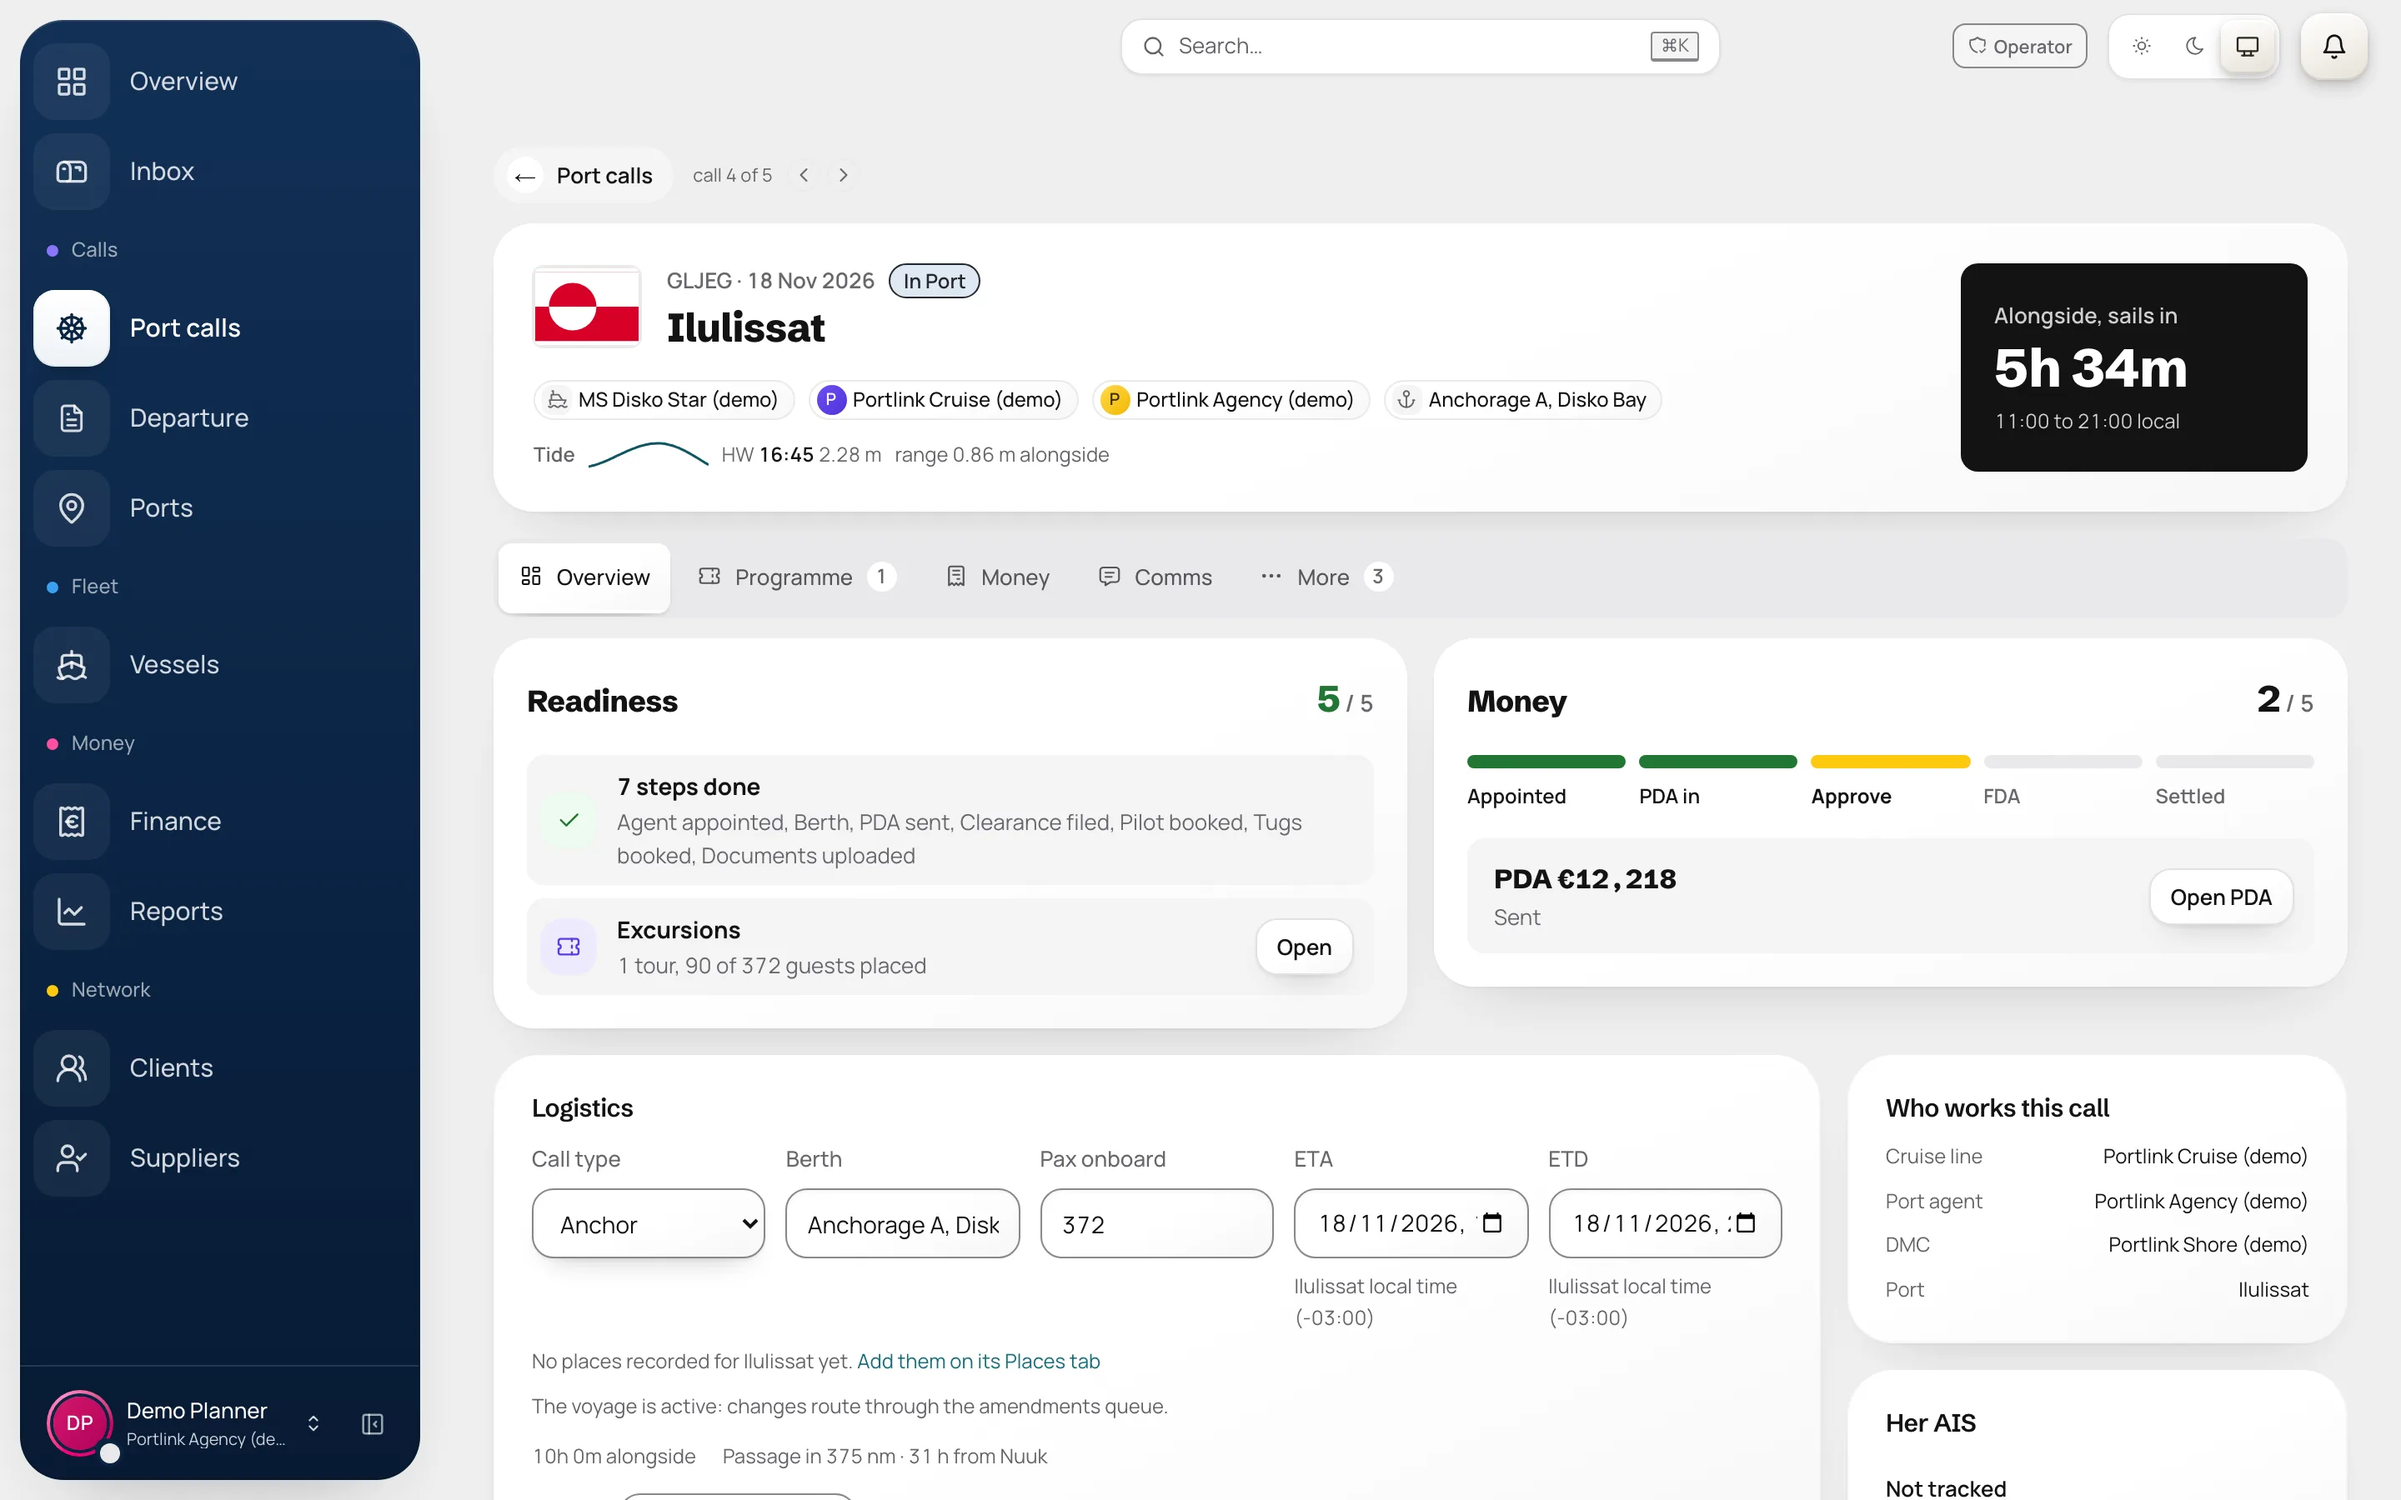
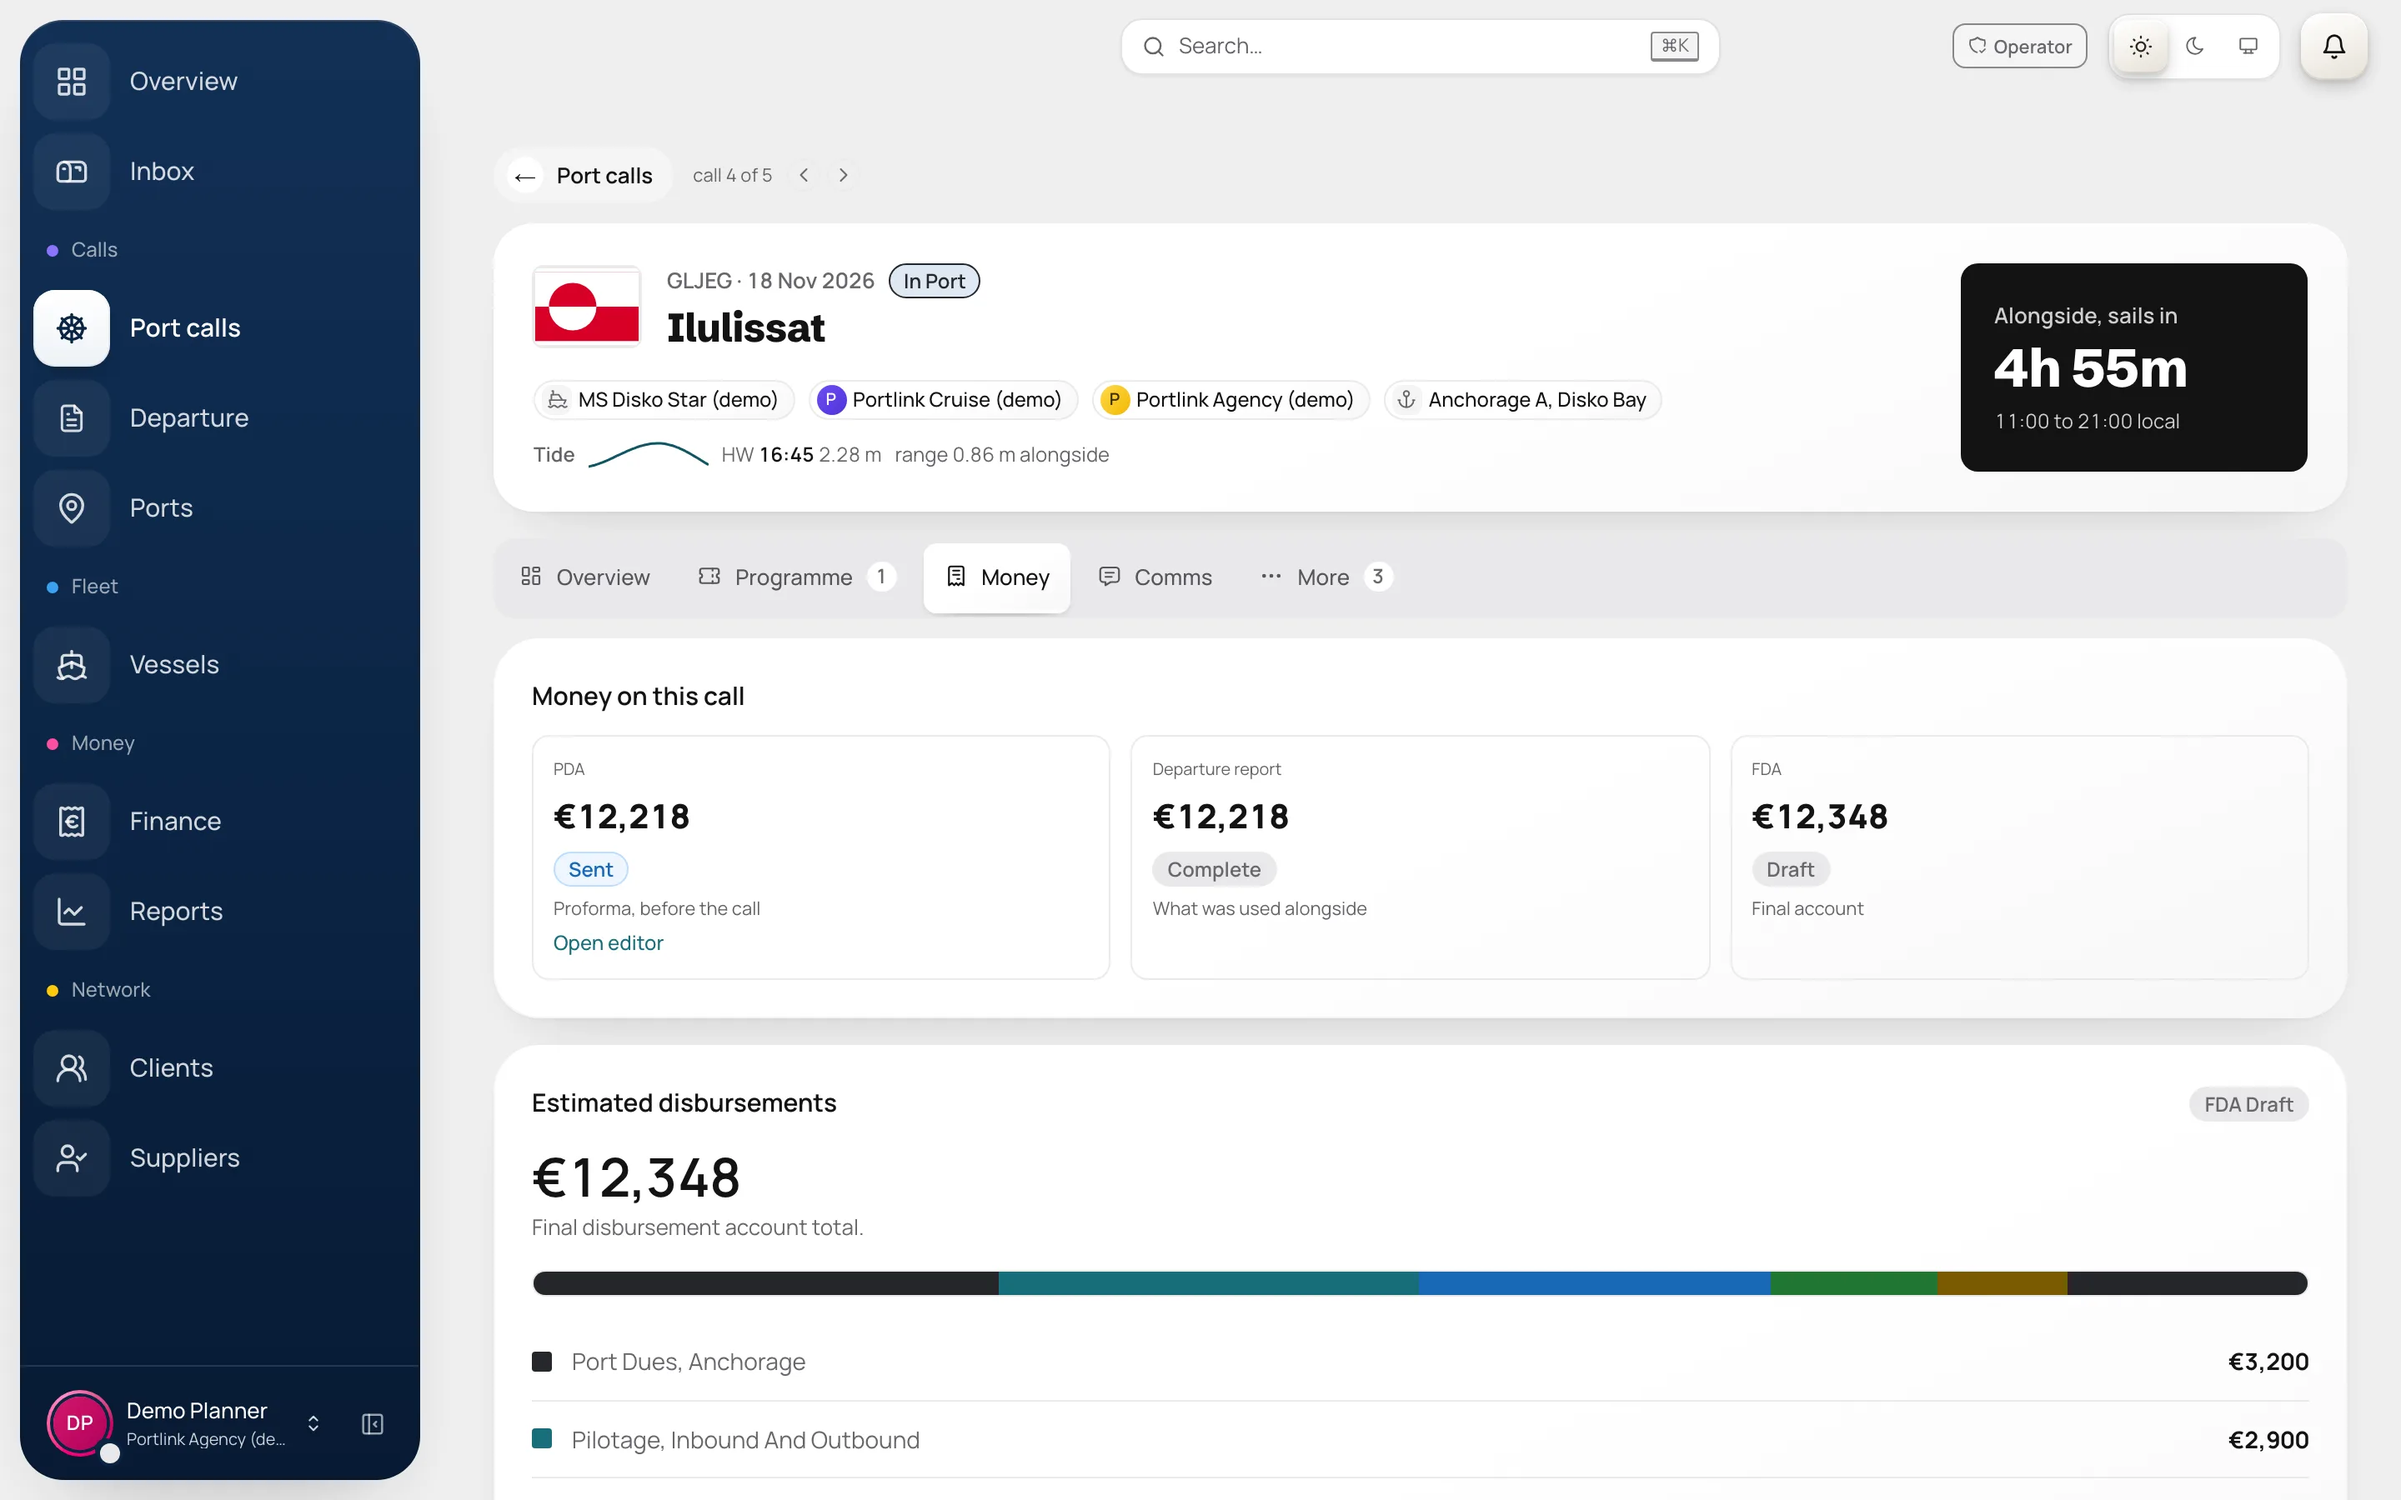
fix(harbour): P12 recaptured on the call's Money tab
P12-desktop and P12-phone showed the call Overview tab (the P06 view), so claim
rows 33, 35 and 36 had no support. Recaptured on the Money tab of the Ilulissat
seed call (platform PR #3230, agent workspace): PDA EUR 12,218 Sent, departure
report Complete, FDA EUR 12,348 Draft. Row 35 marked partial: the actual/estimate
mix per line is not labelled; /harbour copy does not make that claim.

diff --git a/docs/HARBOUR-CLAIMS.md b/docs/HARBOUR-CLAIMS.md
@@ -33,10 +33,10 @@ Data: local Platform stack seeded with PR #3230 (`supabase/seeds/demo_harbour_il
 | 26 | S8 | "Embark runs departures, guides, bookings and payments for small tour operators" | E | P09-desktop.png | no | Departures, guides and bookings are visible (rows 21, 22); payments is not (row 23). |
 | 27 | S8 | Copy: "Tomorrow's departures, staffed." | E | P09-desktop.png | yes | The top bar shows "I morgen Fjordcruise 15:31"; a staffed departure (initials) sits beside unstaffed ones, so reword to "staffed or not, at a glance" if both rows matter. |
 | 28 | S9 | "Embark field mode is the guide's phone view on tour. This is the real screen." | E | none (P10 removed) | no | The route exists in code (`/admin/on-tour/[id]`) but the local Embark database is 30 migrations behind (at 0109, needs 0110 to 0139; `departure.free_sale` is missing) and the page returns a server error. Applying the migrations was refused by the psql write gate (Embark's port 55322 is not in the platform repo's allowed loopback set). Remove S9, or capture it after the local Embark stack is rebuilt (`supabase/dev/local-up.sh --reset`). |
-| 33 | S11 | With the departure report complete, a draft FDA is generated | C | P12-desktop.png, P12-phone.png | yes | Money tab: Departure report "Complete", FDA "Draft EUR 12 348"; PDA page: "FDA generated, EUR 12 348". |
+| 33 | S11 | With the departure report complete, a draft FDA is generated | C | P12-desktop.png, P12-phone.png | yes | Money tab (recaptured 18.11.2026 kl. 19.05, tab `Money` selected, URL `/calls/1ce1a551-0003-4000-8000-000000000004#money`, agent workspace): cards "PDA EUR 12,218 Sent", "Departure report EUR 12,218 Complete", "FDA EUR 12,348 Draft". The earlier P12 showed the Overview tab and did not support this row. |
 | 34 | S11 | ...signed by both sides | C | P12b-desktop.png | no | The report shows Complete and its sections; the signatures are not visible. Reword to "complete" or capture the signature block. |
-| 35 | S11 | ...using actual amounts where supplied and estimates otherwise | C | P12-desktop.png | yes | The totals differ (PDA 12 218, FDA 12 348); the per-line mix is not shown. |
-| 36 | S11 | Copy: the estimate and the draft FDA sit on the same call | none | P12-desktop.png | yes | Three cards (PDA, Departure report, FDA) on the call's Money tab. |
+| 35 | S11 | ...using actual amounts where supplied and estimates otherwise | C | P12-desktop.png, P12-phone.png | partial | The totals differ on the Money tab (PDA and departure report 12,218, FDA 12,348) and "Estimated disbursements" lists the FDA lines (Port Dues, Anchorage EUR 3,200; Pilotage EUR 2,900, both phone and desktop). Which line is actual and which estimated is not labelled, so the mix itself is not shown; the /harbour copy does not make this claim (S11 line is row 36). |
+| 36 | S11 | Copy: the estimate and the draft FDA sit on the same call | none | P12-desktop.png | yes | Three cards (PDA, Departure report, FDA) under "Money on this call" on the call's Money tab, desktop and phone (phone scrolled to the cards). |
 | 37 | S12 | "Each workspace sees what its role on the call allows" | none | P05, P06, P08, P12 | yes | Cruise line, agent and DMC workspaces on the same Ilulissat call; a composite of captures, not a single screen. |
 | 38 | S13 | Portlink: cruise line, port agent, DMC | none | P01, P03 to P06, P08, P12 | yes | Three workspaces captured; the vessel is not named (P11 cut). |
 | 39 | S13 | Embark: hut and boat, crop of P9 | E | P09-desktop.png | yes | |
